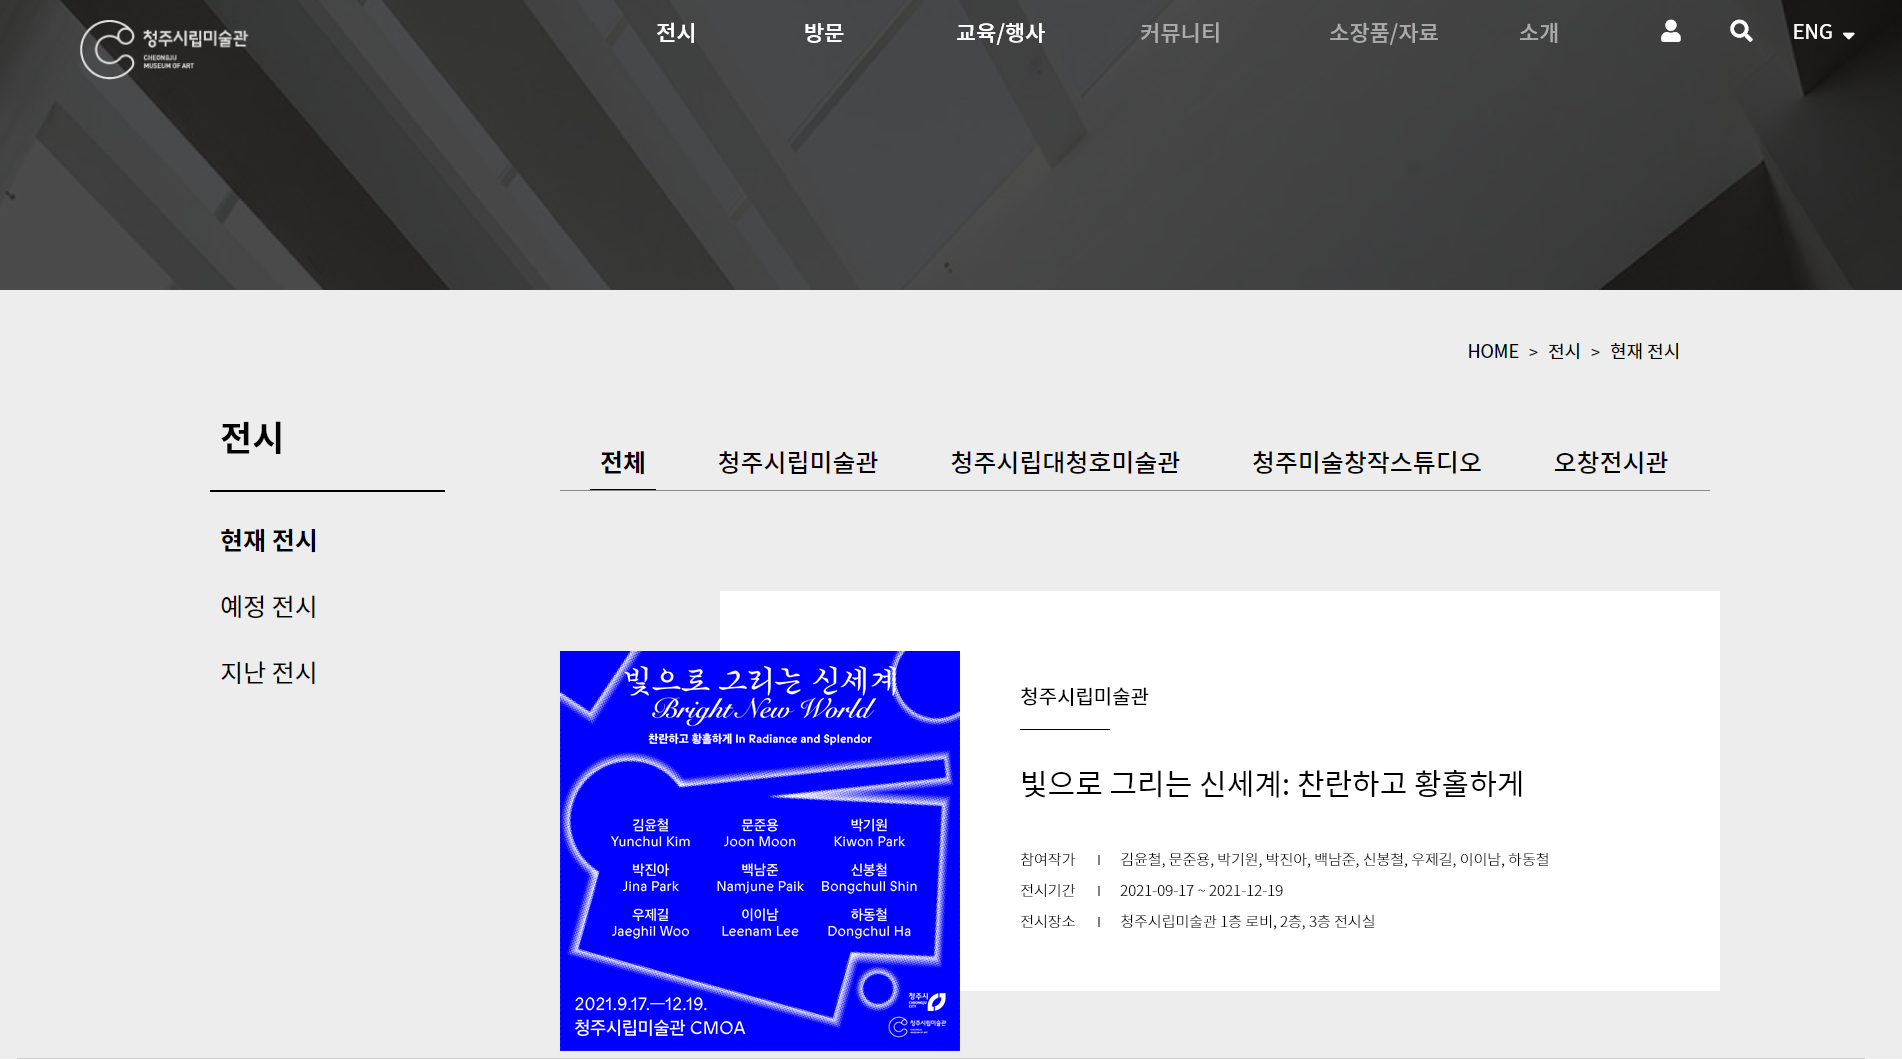
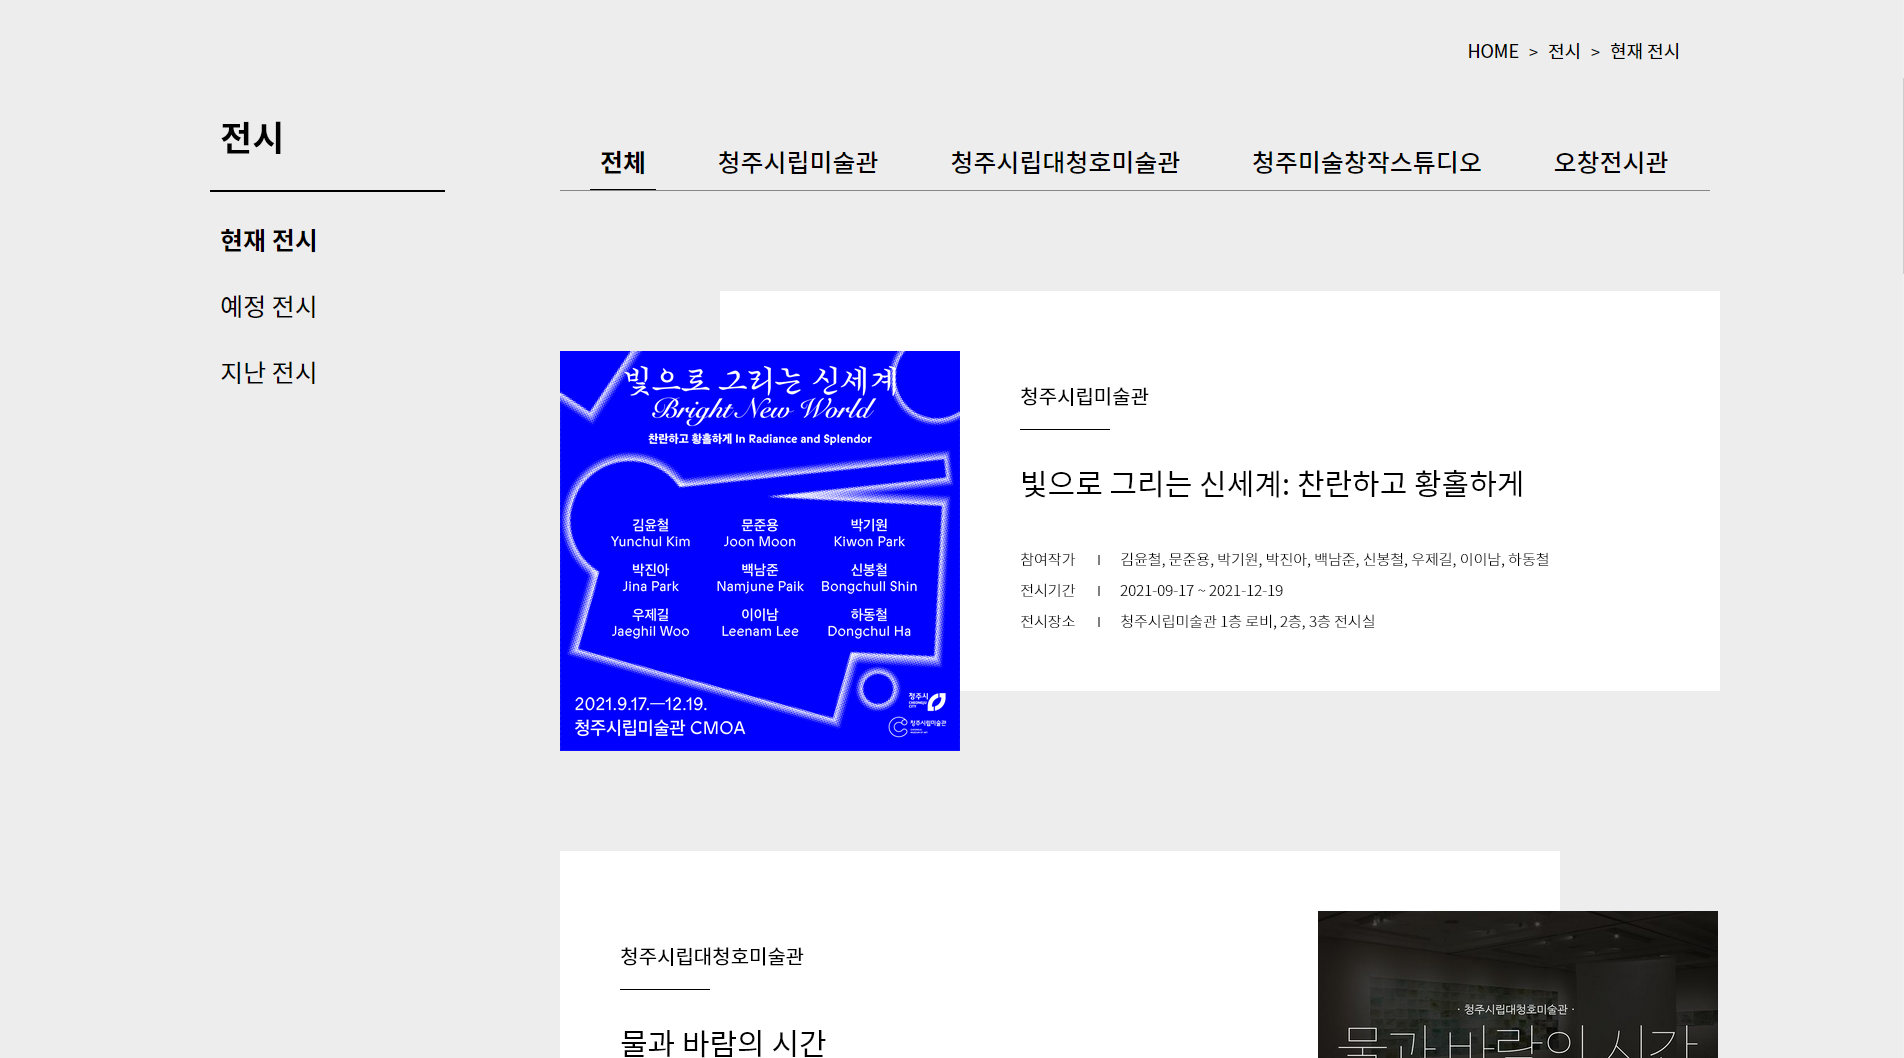
edit cmoa screenshot

diff --git a/css/index.css b/css/index.css
@@ -446,7 +446,7 @@ main .content .mine .message.last:after {
 .sec.project .contents .pj .imgs .screenshot {
     display: inline-block;
     width: 380px;
-    height: 196px;
+    height: 223px;
     background-color: #eee;
     margin-right: 25px;
 }
@@ -482,15 +482,15 @@ main .content .mine .message.last:after {
     background-size: cover;
 }
 .sec.project .contents .pj .imgs .screenshot:nth-child(3) {
-    background: url(/portfolio/img/cmoa_main.png) no-repeat center;
+    background: url(/portfolio/img/cmoa_sub1-1.png) no-repeat center;
     background-size: cover;
 }
 .sec.project .contents .pj .imgs .screenshot:nth-child(4) {
-    background: url(/portfolio/img/cmoa_main.png) no-repeat center;
+    background: url(/portfolio/img/cmoa_sub2.png) no-repeat center;
     background-size: cover;
 }
 .sec.project .contents .pj .imgs .screenshot:nth-child(5) {
-    background: url(/portfolio/img/cmoa_main.png) no-repeat center;
+    background: url(/portfolio/img/cmoa_sub3.png) no-repeat center;
     background-size: cover;
 }
 
